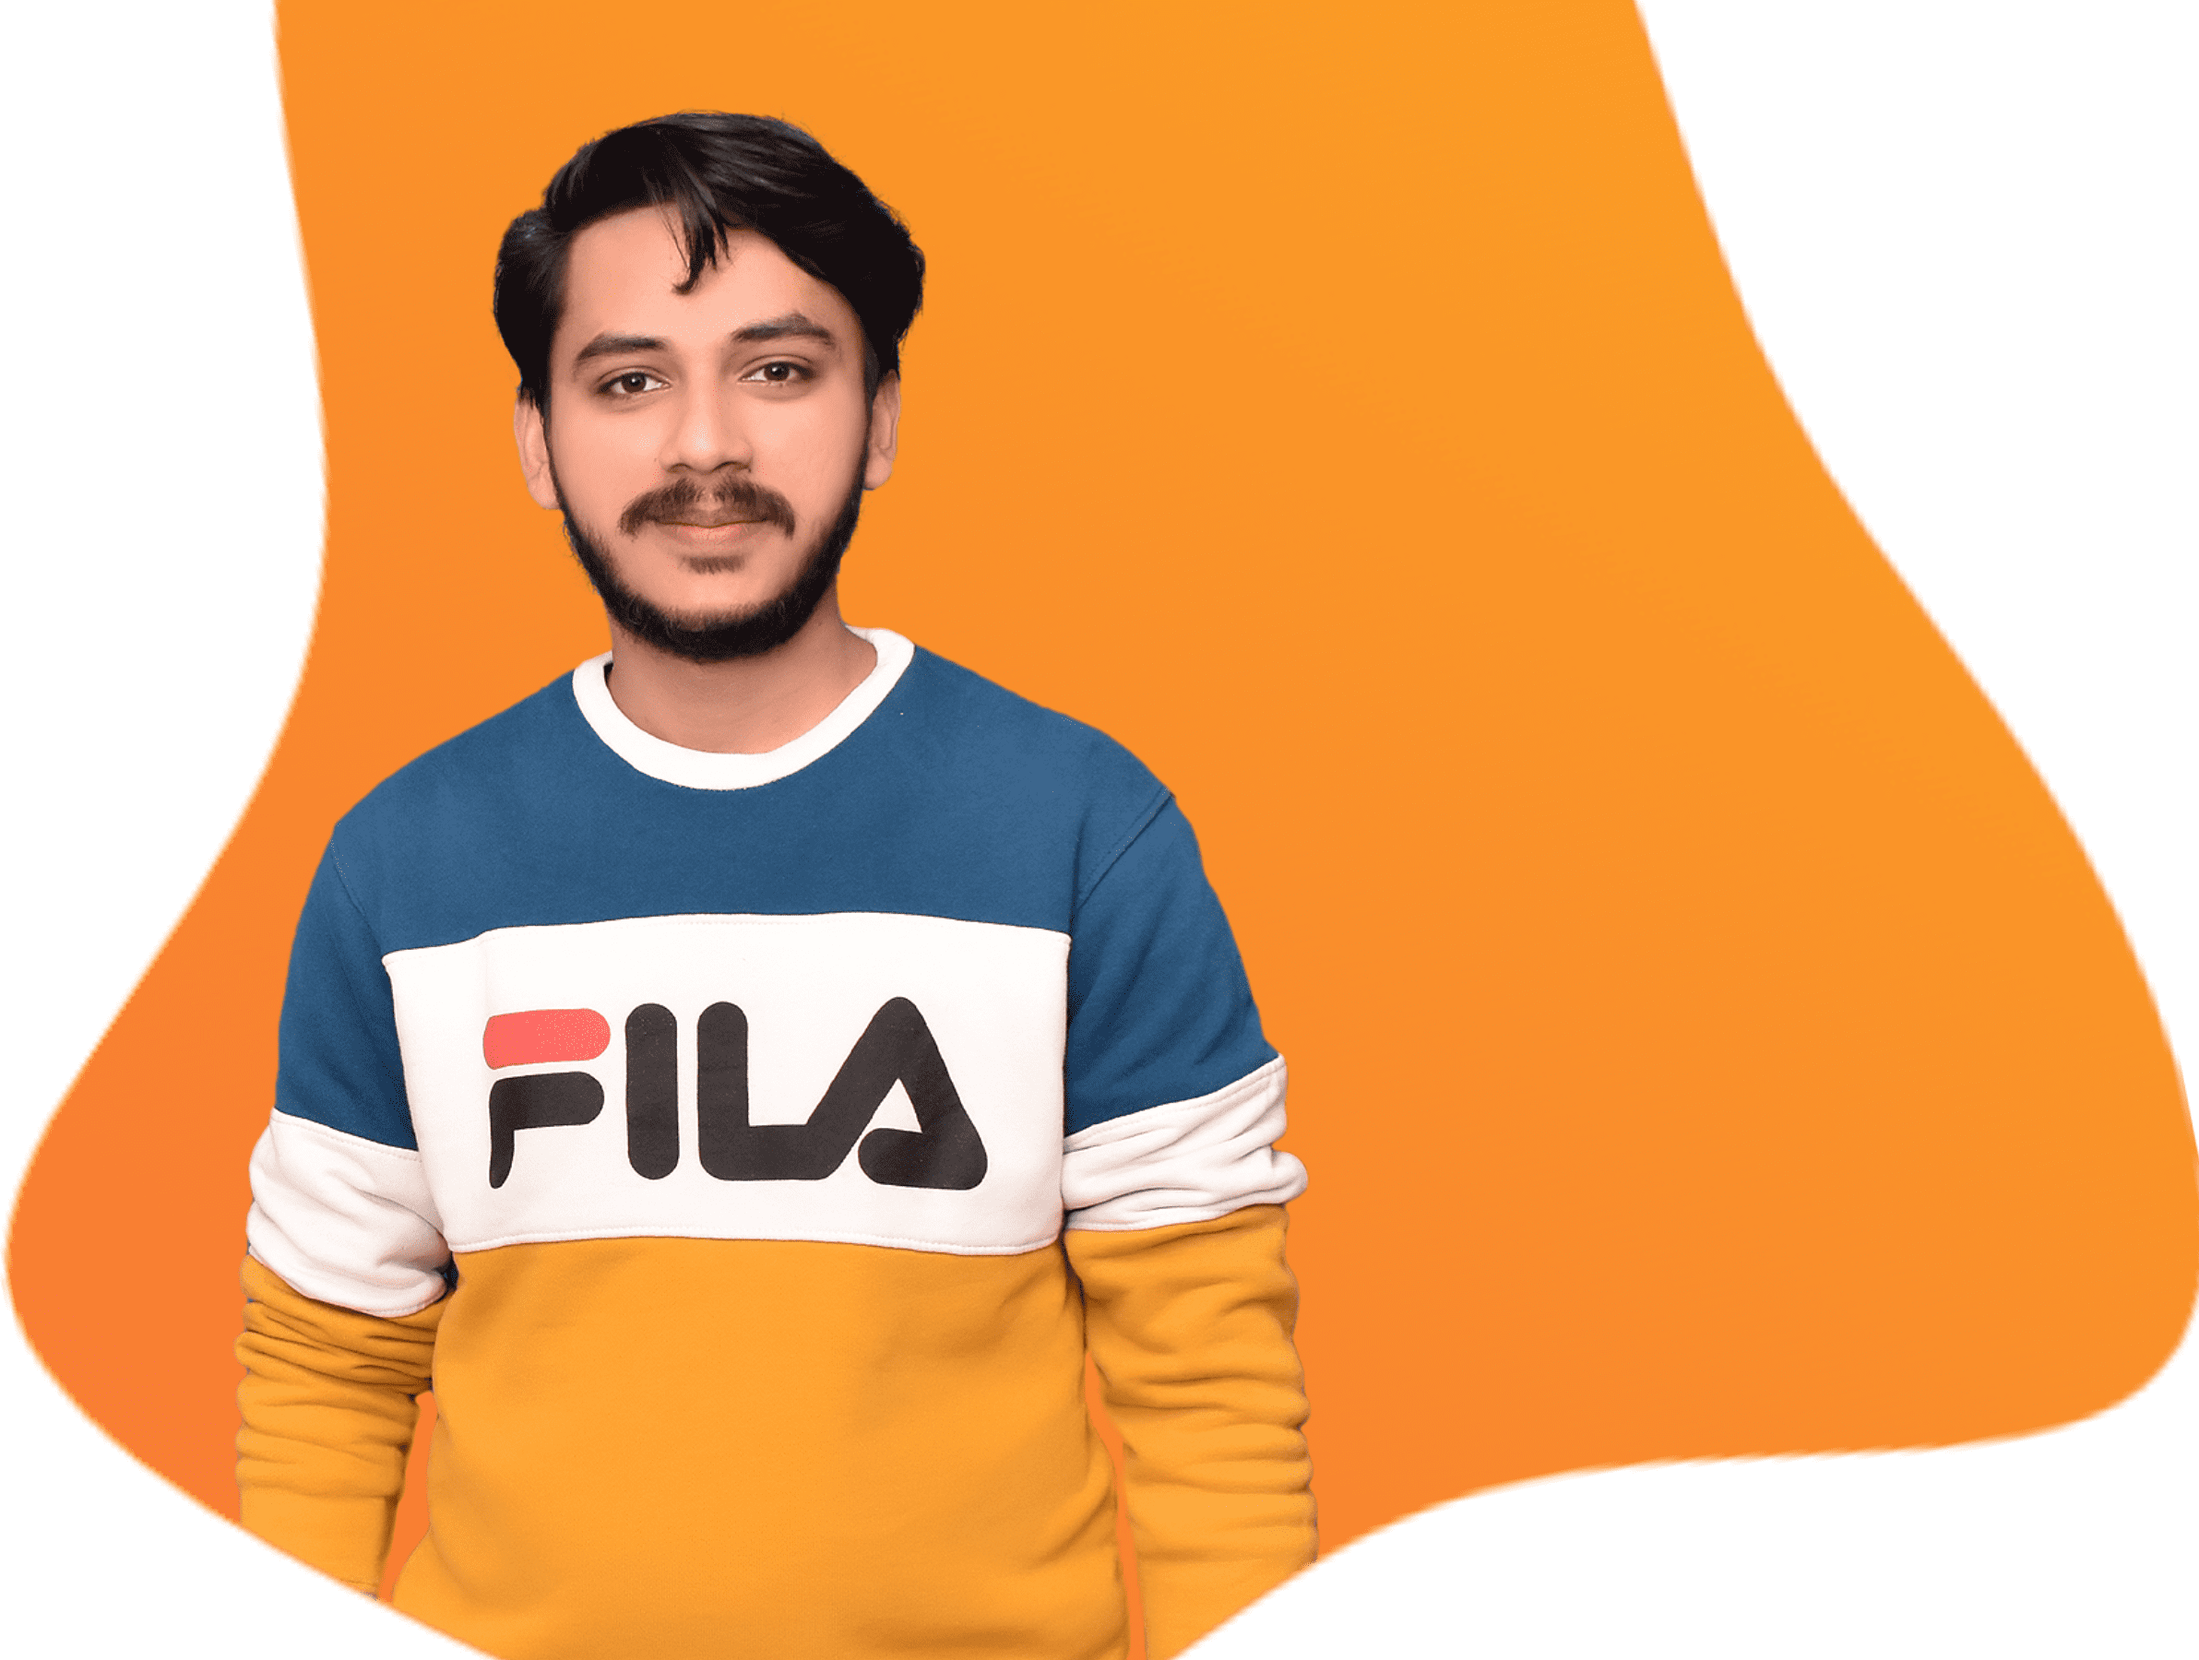
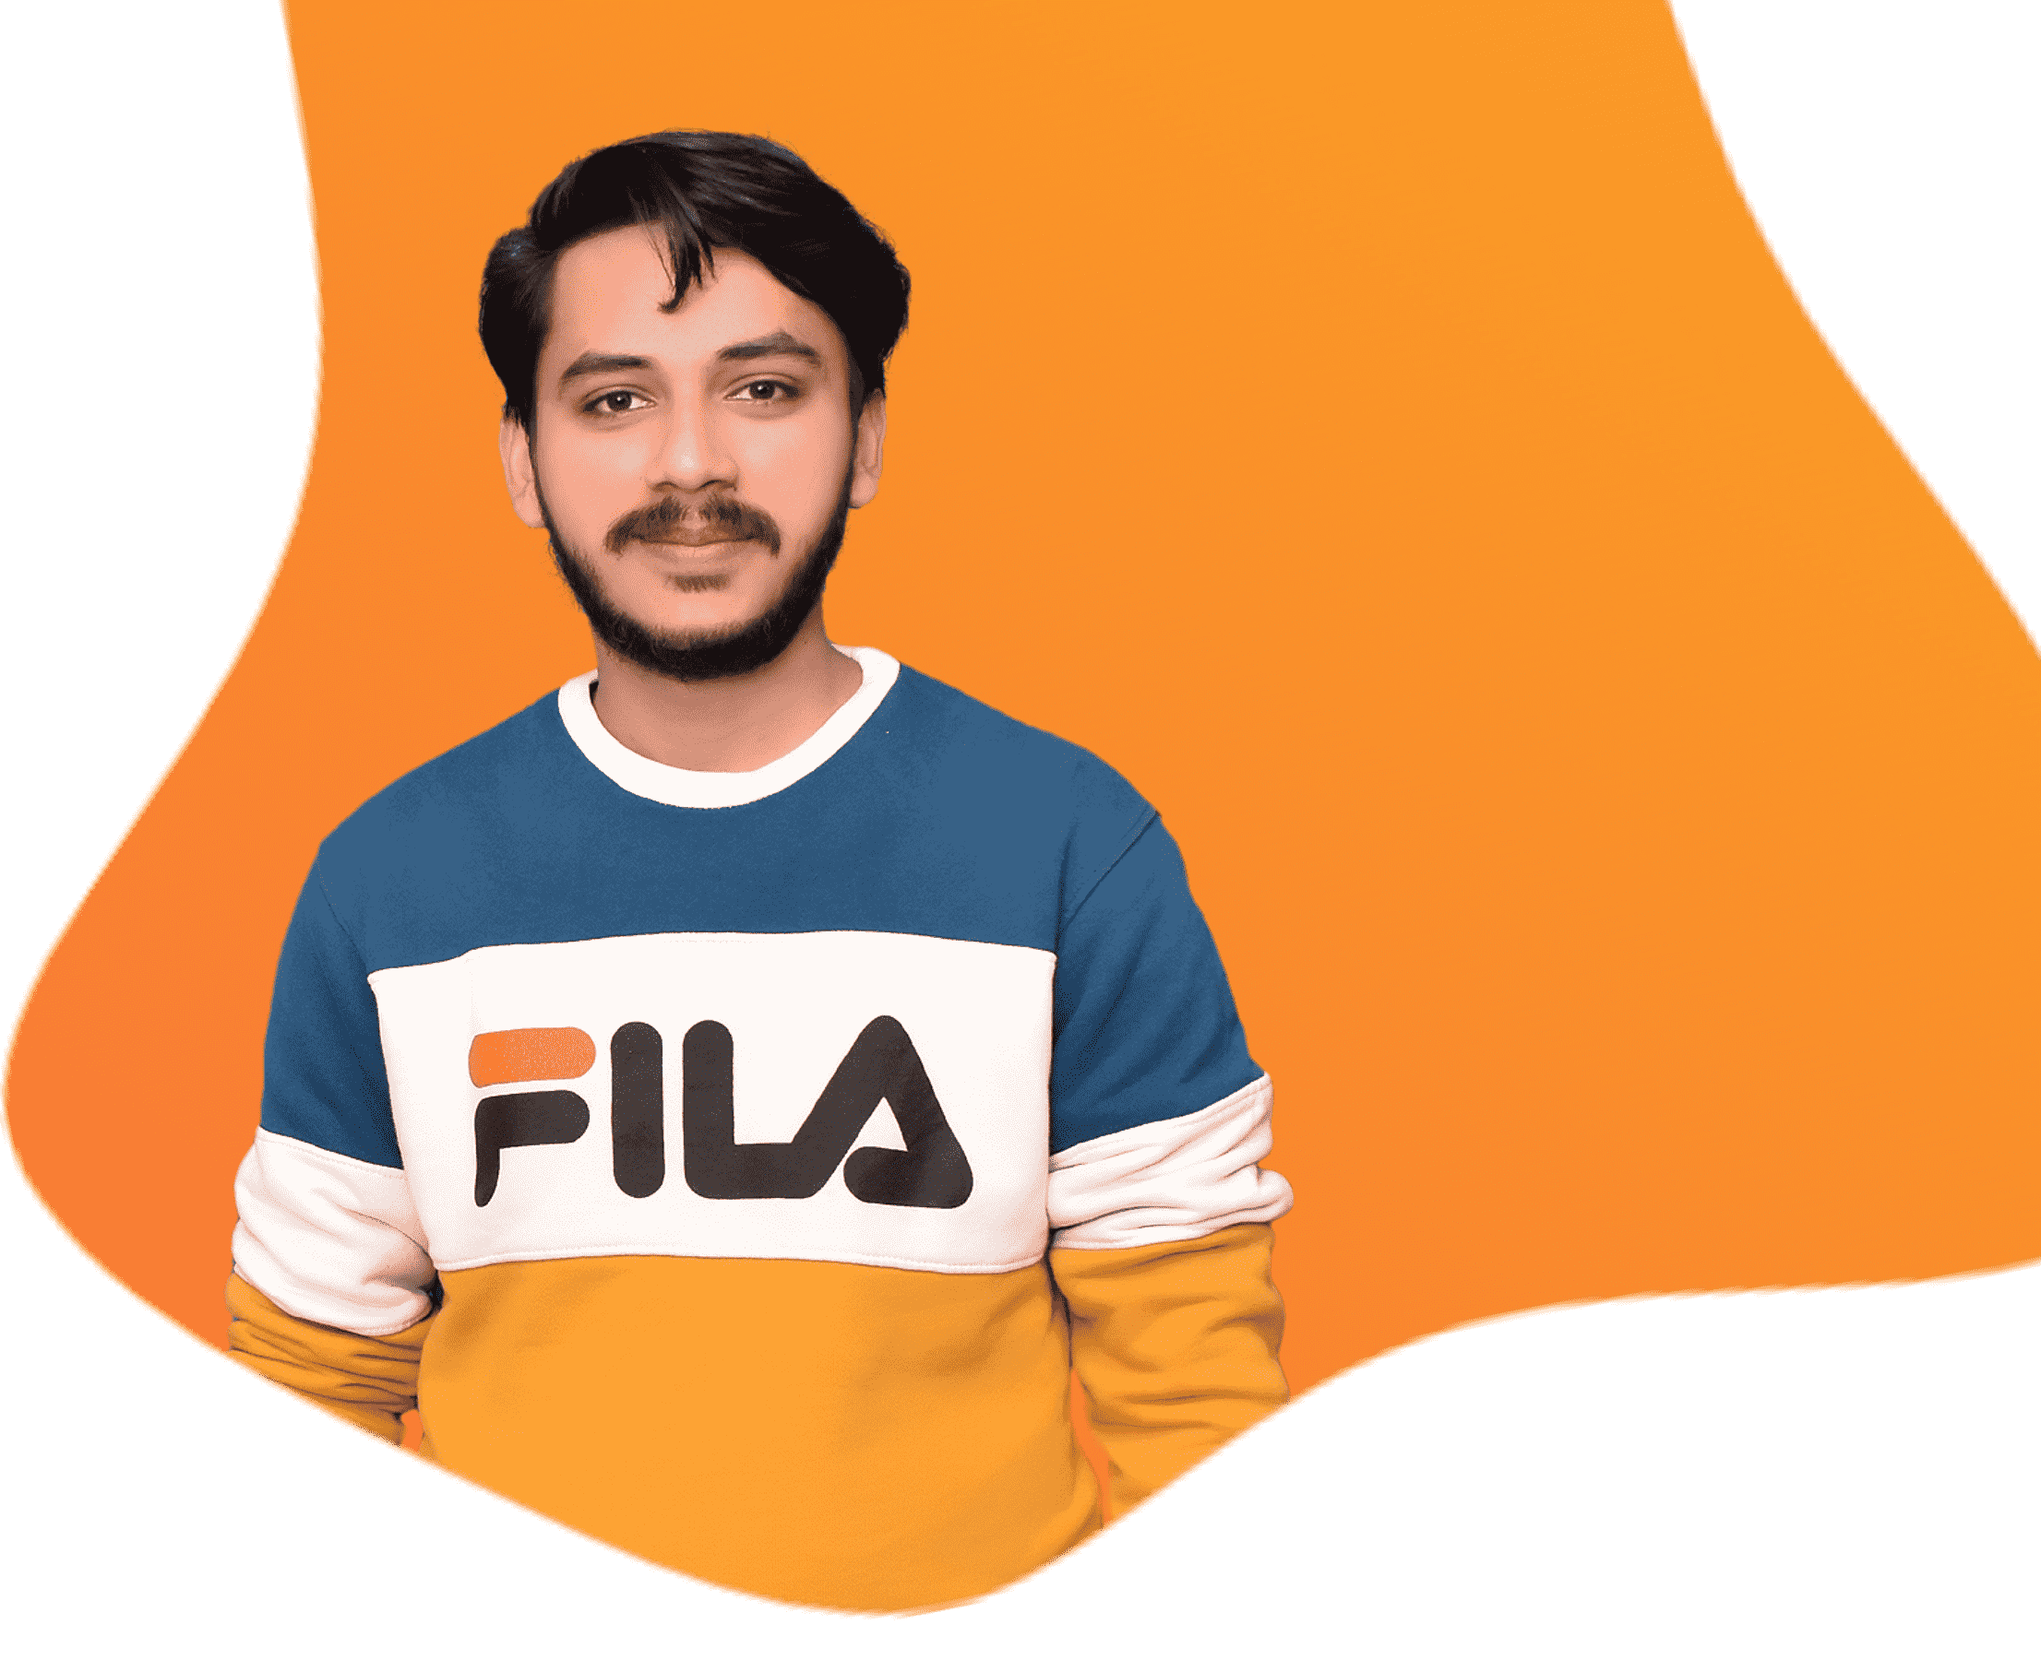
updated.

Changed region(s): [[0.0, 0.0, 1.0, 1.0], [0.1872, 0.0622, 0.4991, 0.4978], [0.156, 0.4667, 0.1872, 0.4978]]

diff --git a/src/components/IntroHeader/index.tsx b/src/components/IntroHeader/index.tsx
@@ -1,10 +1,12 @@
 import Image from 'next/image';
 import ForegroundImage from '../../assets/images/myself_bg.png';
+import WaterMark from '../../assets/images/watermark.png';
 
 export default function IntroHeader() {
     return (
         <div className='relative'>
-            <Image className='absolute right-0' height={600} src={ForegroundImage} alt="Abdul Rehman - Full Stack Developer" />
+            <Image className='absolute left-10 opacity-5 z-20 top-5' height={200} src={WaterMark} alt="Abdul Rehman - Full Stack Developer" />
+            <Image priority className='absolute right-0' height={520} src={ForegroundImage} alt="Abdul Rehman - Full Stack Developer" />
         </div>
     );
 }
